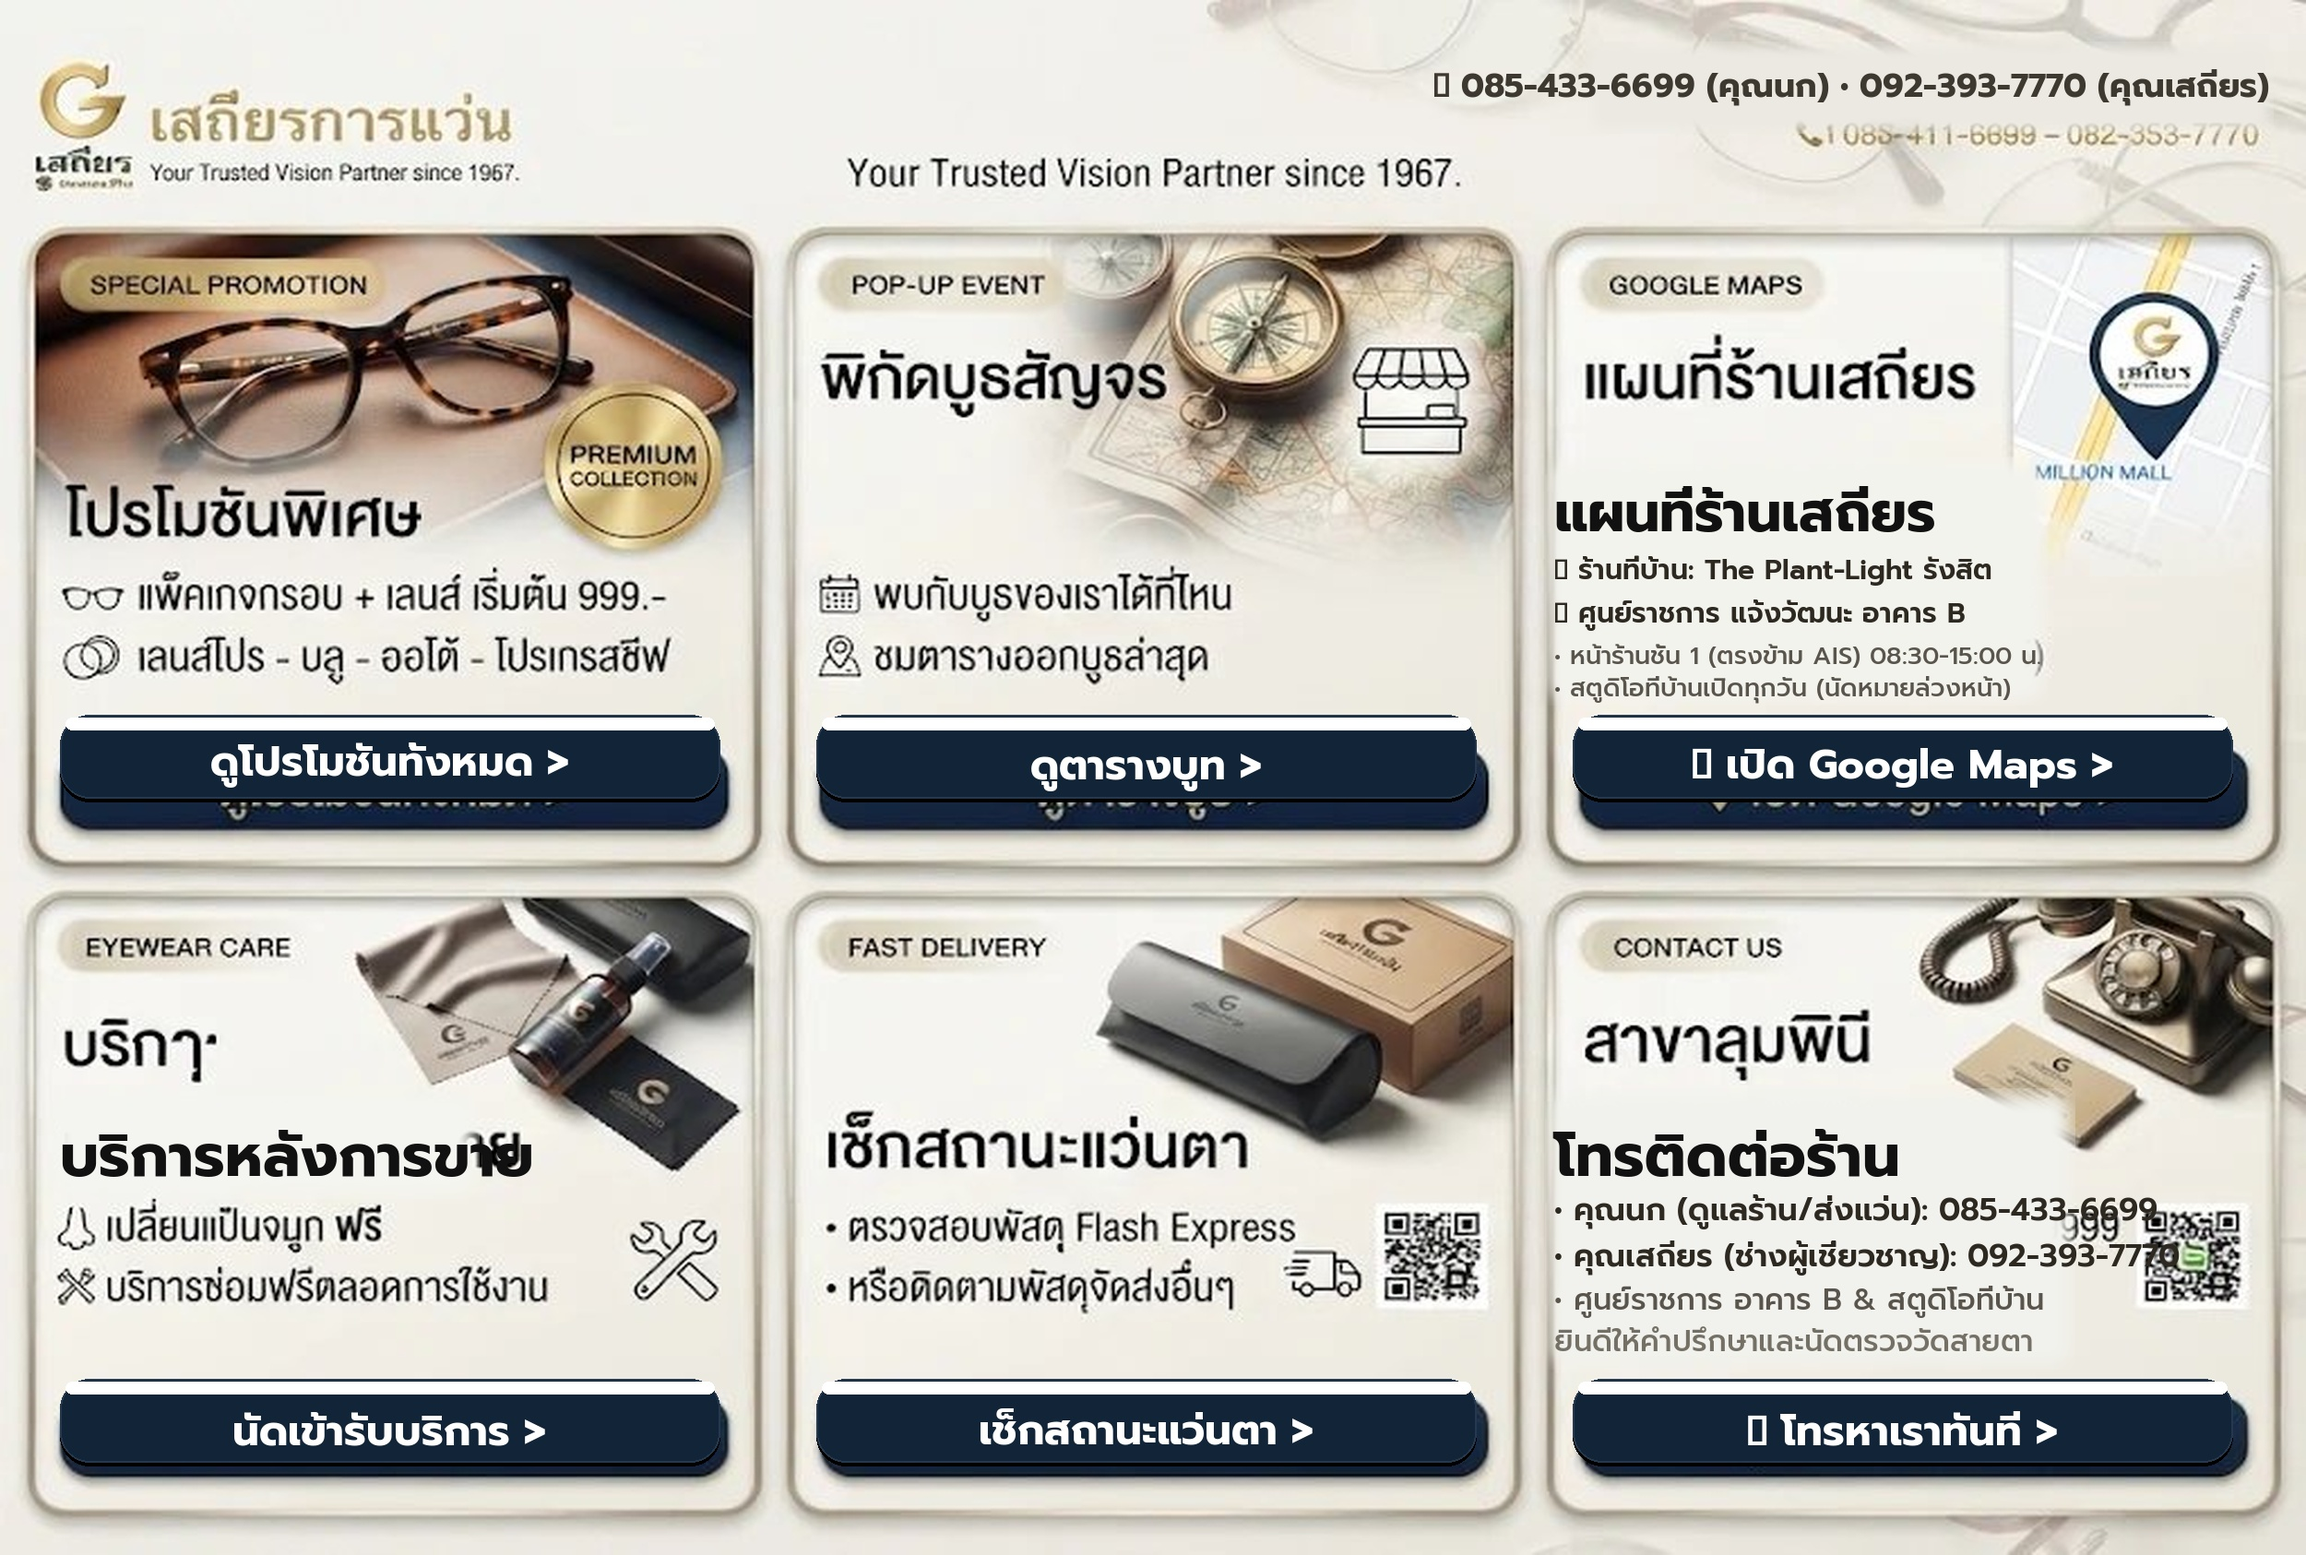
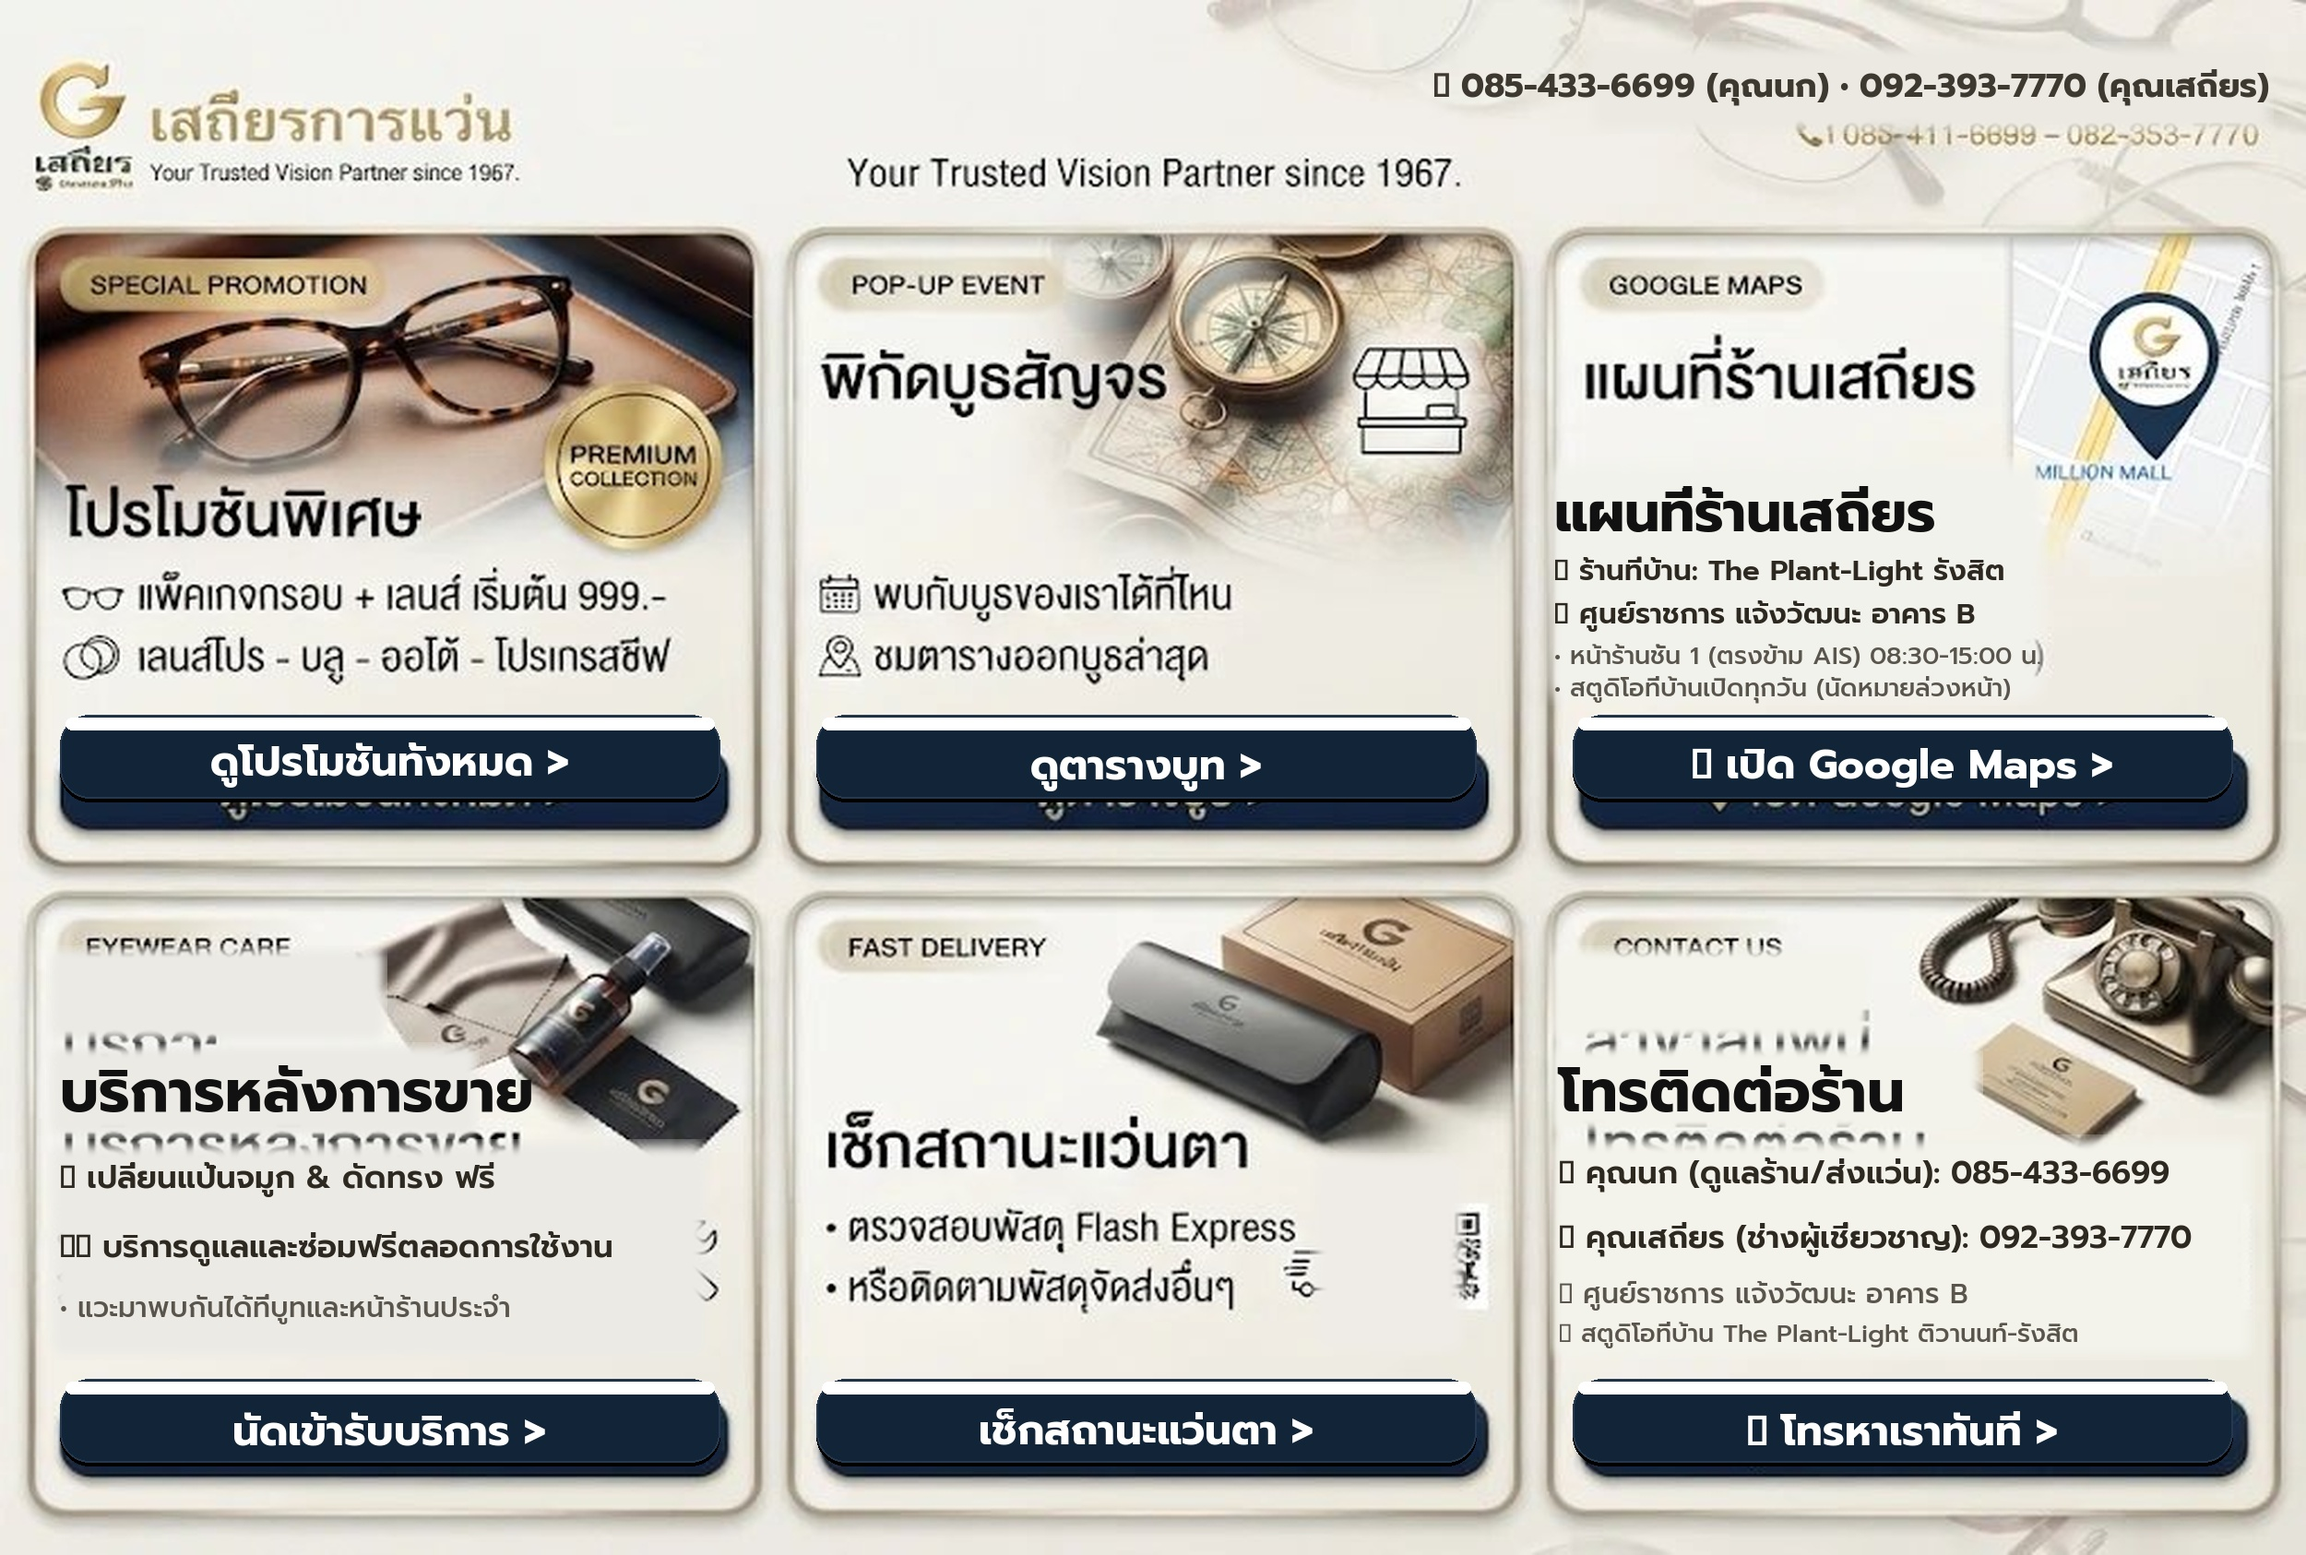
Fix overlapping text, remove Lumpini branch and remove all QR codes from rich menu

diff --git a/create_luxury_custom_sathien_menu.py b/create_luxury_custom_sathien_menu.py
@@ -1,13 +1,11 @@
 import os
 from PIL import Image, ImageDraw, ImageFont, ImageFilter
 
-def build_rich_menu():
-    src_path = "scratch_resized_2500x1686.png"
-    if not os.path.exists(src_path):
-        orig = Image.open("C:/Users/Administrator/.gemini/antigravity/brain/bd4e2114-09d7-49d9-a028-5fcd2873c6e4/.user_uploaded/media_1795514773586_98b21bb2.jpg")
-        base = orig.resize((2500, 1686), Image.Resampling.LANCZOS)
-    else:
-        base = Image.open(src_path).convert("RGBA")
+def generate_perfect_menu():
+    # Always load fresh base resized from the user's uploaded original
+    src_path = "C:/Users/Administrator/.gemini/antigravity/brain/bd4e2114-09d7-49d9-a028-5fcd2873c6e4/.user_uploaded/media_1795514773586_98b21bb2.jpg"
+    orig = Image.open(src_path)
+    base = orig.resize((2500, 1686), Image.Resampling.LANCZOS).convert("RGBA")
 
     # Fonts
     font_bold = "fonts/Prompt-Bold.ttf"
@@ -17,14 +15,14 @@ def build_rich_menu():
     f_title = ImageFont.truetype(font_bold, 64)
     f_c3_title = ImageFont.truetype(font_bold, 60)
     f_sub_bold = ImageFont.truetype(font_semibold, 34)
-    f_sub_c3 = ImageFont.truetype(font_semibold, 30)
+    f_sub_c3 = ImageFont.truetype(font_semibold, 31)
     f_sub_c3_small = ImageFont.truetype(font_medium, 27)
-    f_sub = ImageFont.truetype(font_medium, 32)
+    f_sub = ImageFont.truetype(font_medium, 30)
+    f_sub_small = ImageFont.truetype(font_medium, 27)
     f_header_phone = ImageFont.truetype(font_bold, 36)
     f_btn = ImageFont.truetype(font_bold, 45)
 
-    # Seamless patch helper
-    def seamless_patch(img, box, bg_color, radius=16, blur=8):
+    def seamless_patch(img, box, bg_color, radius=12, blur=6):
         x1, y1, x2, y2 = box
         w = max(10, x2 - x1)
         h = max(10, y2 - y1)
@@ -35,16 +33,11 @@ def build_rich_menu():
         mask = mask.filter(ImageFilter.GaussianBlur(blur))
         img.paste(patch, (x1, y1), mask)
 
-    # Clean button renderer
     def draw_clean_button(draw, box, text, font):
         x1, y1, x2, y2 = box
-        # Outer subtle drop shadow
         draw.rounded_rectangle([x1, y1+4, x2, y2+4], radius=32, fill="#00000030")
-        # Base Navy Button
         draw.rounded_rectangle([x1, y1, x2, y2], radius=32, fill="#122538", outline="#25384D", width=2)
-        # Subtle top gloss highlight
         draw.rounded_rectangle([x1+6, y1+3, x2-6, y1+16], radius=16, fill="#FFFFFF25")
-        # Centered white text
         bbox = font.getbbox(text)
         tw = bbox[2] - bbox[0]
         th = bbox[3] - bbox[1]
@@ -52,9 +45,7 @@ def build_rich_menu():
         ty = y1 + (y2 - y1 - th) // 2 - 4
         draw.text((tx, ty), text, fill="#FFFFFF", font=font)
 
-    # ==========================================
     # 1. HEADER (PHONE AREA)
-    # ==========================================
     seamless_patch(base, [1720, 45, 2465, 145], (235, 233, 226, 255), radius=10, blur=6)
     d = ImageDraw.Draw(base)
     phone_text = "📞 085-433-6699 (คุณนก) • 092-393-7770 (คุณเสถียร)"
@@ -62,57 +53,68 @@ def build_rich_menu():
     tw_p = bbox_p[2] - bbox_p[0]
     d.text((2460 - tw_p, 65), phone_text, fill="#3D3830", font=f_header_phone)
 
-    # ==========================================
     # 2. CARD 3: แผนที่ร้านเสถียร (HOME GOOGLE MAPS & GOV CENTER)
-    # ==========================================
-    # Erase old fake text "ศูนย์การค้าธัญญาพาร์ค..."
-    seamless_patch(base, [1675, 495, 2220, 765], (243, 243, 238, 255), radius=16, blur=8)
+    seamless_patch(base, [1675, 495, 2220, 765], (242, 242, 237, 255), radius=16, blur=8)
     d = ImageDraw.Draw(base)
     d.text((1685, 510), "แผนที่ร้านเสถียร", fill="#111111", font=f_c3_title)
     d.text((1685, 595), "🏡 ร้านที่บ้าน: The Plant-Light รังสิต", fill="#2D2820", font=f_sub_c3)
     d.text((1685, 642), "🏢 ศูนย์ราชการ แจ้งวัฒนะ อาคาร B", fill="#2D2820", font=f_sub_c3)
     d.text((1685, 690), "• หน้าร้านชั้น 1 (ตรงข้าม AIS) 08:30-15:00 น.", fill="#5A554C", font=f_sub_c3_small)
     d.text((1685, 725), "• สตูดิโอที่บ้านเปิดทุกวัน (นัดหมายล่วงหน้า)", fill="#5A554C", font=f_sub_c3_small)
-
     draw_clean_button(d, [1705, 775, 2420, 865], "📍 เปิด Google Maps >", f_btn)
 
-    # ==========================================
-    # 3. CARD 4: บริการหลังการขาย (FIX GLITCH "บริกๆ")
-    # ==========================================
-    # Erase corrupted "บริกๆ บริการหลังการขาย"
-    seamless_patch(base, [50, 1180, 520, 1300], (244, 245, 240, 255), radius=16, blur=8)
-    d = ImageDraw.Draw(base)
-    d.text((65, 1205), "บริการหลังการขาย", fill="#111111", font=f_title)
+    # 3. CARD 4: บริการหลังการขาย (Completely wipe "บริกๆ" and old overlapping text!)
+    # Top-left patch: Erases "บริกๆ"
+    seamless_patch(base, [50, 1025, 420, 1130], (235, 234, 229, 255), radius=10, blur=5)
+    # Mid-left patch: Erases old "บริการหลังการขาย"
+    seamless_patch(base, [50, 1130, 520, 1235], (235, 234, 229, 255), radius=10, blur=5)
+    # Lower patch: Erases old bullets
+    seamless_patch(base, [50, 1235, 770, 1475], (235, 234, 229, 255), radius=10, blur=6)
 
+    d = ImageDraw.Draw(base)
+    d.text((65, 1135), "บริการหลังการขาย", fill="#111111", font=f_title)
+    d.text((65, 1250), "✨ เปลี่ยนแป้นจมูก & ดัดทรง ฟรี", fill="#2D2820", font=f_sub_bold)
+    d.text((65, 1325), "🛠 บริการดูแลและซ่อมฟรีตลอดการใช้งาน", fill="#2D2820", font=f_sub_bold)
+    d.text((65, 1395), "• แวะมาพบกันได้ที่บูทและหน้าร้านประจำ", fill="#5A554C", font=f_sub)
     draw_clean_button(d, [65, 1495, 780, 1585], "นัดเข้ารับบริการ >", f_btn)
 
-    # ==========================================
-    # 4. CARD 6: โทรติดต่อร้าน (REAL SATHIEN CONTACT INFO)
-    # ==========================================
-    # Erase fake branches "สาขาลุมพินี..."
-    seamless_patch(base, [1675, 1180, 2250, 1485], (241, 242, 237, 255), radius=16, blur=8)
+    # 4. CARD 5: เช็กสถานะแว่นตา (REMOVE QR CODE!)
+    seamless_patch(base, [1420, 1250, 1590, 1470], (239, 236, 231, 255), radius=12, blur=6)
     d = ImageDraw.Draw(base)
-    d.text((1685, 1205), "โทรติดต่อร้าน", fill="#111111", font=f_title)
-    d.text((1685, 1285), "• คุณนก (ดูแลร้าน/ส่งแว่น): 085-433-6699", fill="#2D2820", font=f_sub_bold)
-    d.text((1685, 1335), "• คุณเสถียร (ช่างผู้เชี่ยวชาญ): 092-393-7770", fill="#2D2820", font=f_sub_bold)
-    d.text((1685, 1385), "• ศูนย์ราชการ อาคาร B & สตูดิโอที่บ้าน", fill="#5A554C", font=f_sub)
-    d.text((1685, 1430), "ยินดีให้คำปรึกษาและนัดตรวจวัดสายตา", fill="#757065", font=f_sub)
-
-    draw_clean_button(d, [1705, 1495, 2420, 1585], "📞 โทรหาเราทันที >", f_btn)
-
-    # ==========================================
-    # 5. UNIFORM BUTTONS FOR CARDS 1, 2, 5
-    # ==========================================
-    draw_clean_button(d, [65, 775, 780, 865], "ดูโปรโมชันทั้งหมด >", f_btn)
-    draw_clean_button(d, [885, 775, 1600, 865], "ดูตารางบูท >", f_btn)
     draw_clean_button(d, [885, 1495, 1600, 1585], "เช็กสถานะแว่นตา >", f_btn)
 
-    # Save final high-res output
-    out_name = "rich_menu_luxury_custom_sathien.jpg"
+    # 5. CARD 6: โทรติดต่อร้าน (Completely wipe "สาขาลุมพินี", old numbers, and QR code!)
+    # Top-left patch: Erases "สาขาลุมพินี"
+    seamless_patch(base, [1680, 1025, 2030, 1130], (243, 243, 235, 255), radius=10, blur=5)
+    # Mid-left patch: Erases old "โทรติดต่อร้าน"
+    seamless_patch(base, [1680, 1130, 2150, 1230], (243, 243, 235, 255), radius=10, blur=5)
+    # Lower patch: Erases old branches & QR code
+    seamless_patch(base, [1680, 1230, 2445, 1475], (243, 243, 235, 255), radius=10, blur=6)
+
+    d = ImageDraw.Draw(base)
+    d.text((1690, 1135), "โทรติดต่อร้าน", fill="#111111", font=f_title)
+    d.text((1690, 1245), "📞 คุณนก (ดูแลร้าน/ส่งแว่น): 085-433-6699", fill="#2D2820", font=f_sub_bold)
+    d.text((1690, 1315), "📞 คุณเสถียร (ช่างผู้เชี่ยวชาญ): 092-393-7770", fill="#2D2820", font=f_sub_bold)
+    d.text((1690, 1380), "🏢 ศูนย์ราชการ แจ้งวัฒนะ อาคาร B", fill="#5A554C", font=f_sub)
+    d.text((1690, 1425), "🏡 สตูดิโอที่บ้าน The Plant-Light ติวานนท์-รังสิต", fill="#5A554C", font=f_sub_small)
+    draw_clean_button(d, [1705, 1495, 2420, 1585], "📞 โทรหาเราทันที >", f_btn)
+
+    # 6. OTHER BUTTONS
+    draw_clean_button(d, [65, 775, 780, 865], "ดูโปรโมชันทั้งหมด >", f_btn)
+    draw_clean_button(d, [885, 775, 1600, 865], "ดูตารางบูท >", f_btn)
+
+    # Save final image
     final_rgb = base.convert("RGB")
-    final_rgb.save(out_name, "JPEG", quality=95, optimize=True)
-    print(f"Rich Menu successfully generated: {out_name} ({os.path.getsize(out_name)/1024:.1f} KB)")
-    return out_name
+    out_path = "rich_menu_perfect_final.jpg"
+    final_rgb.save(out_path, "JPEG", quality=95, optimize=True)
+    print(f"Generated {out_path} ({os.path.getsize(out_path)/1024:.1f} KB)")
+
+    # Save verification crops
+    final_rgb.crop((35, 950, 810, 1640)).save("verify_final_c4.jpg")
+    final_rgb.crop((850, 950, 1630, 1640)).save("verify_final_c5.jpg")
+    final_rgb.crop((1670, 950, 2455, 1640)).save("verify_final_c6.jpg")
+    print("Verification crops saved successfully!")
+    return out_path
 
 if __name__ == "__main__":
-    build_rich_menu()
+    generate_perfect_menu()
